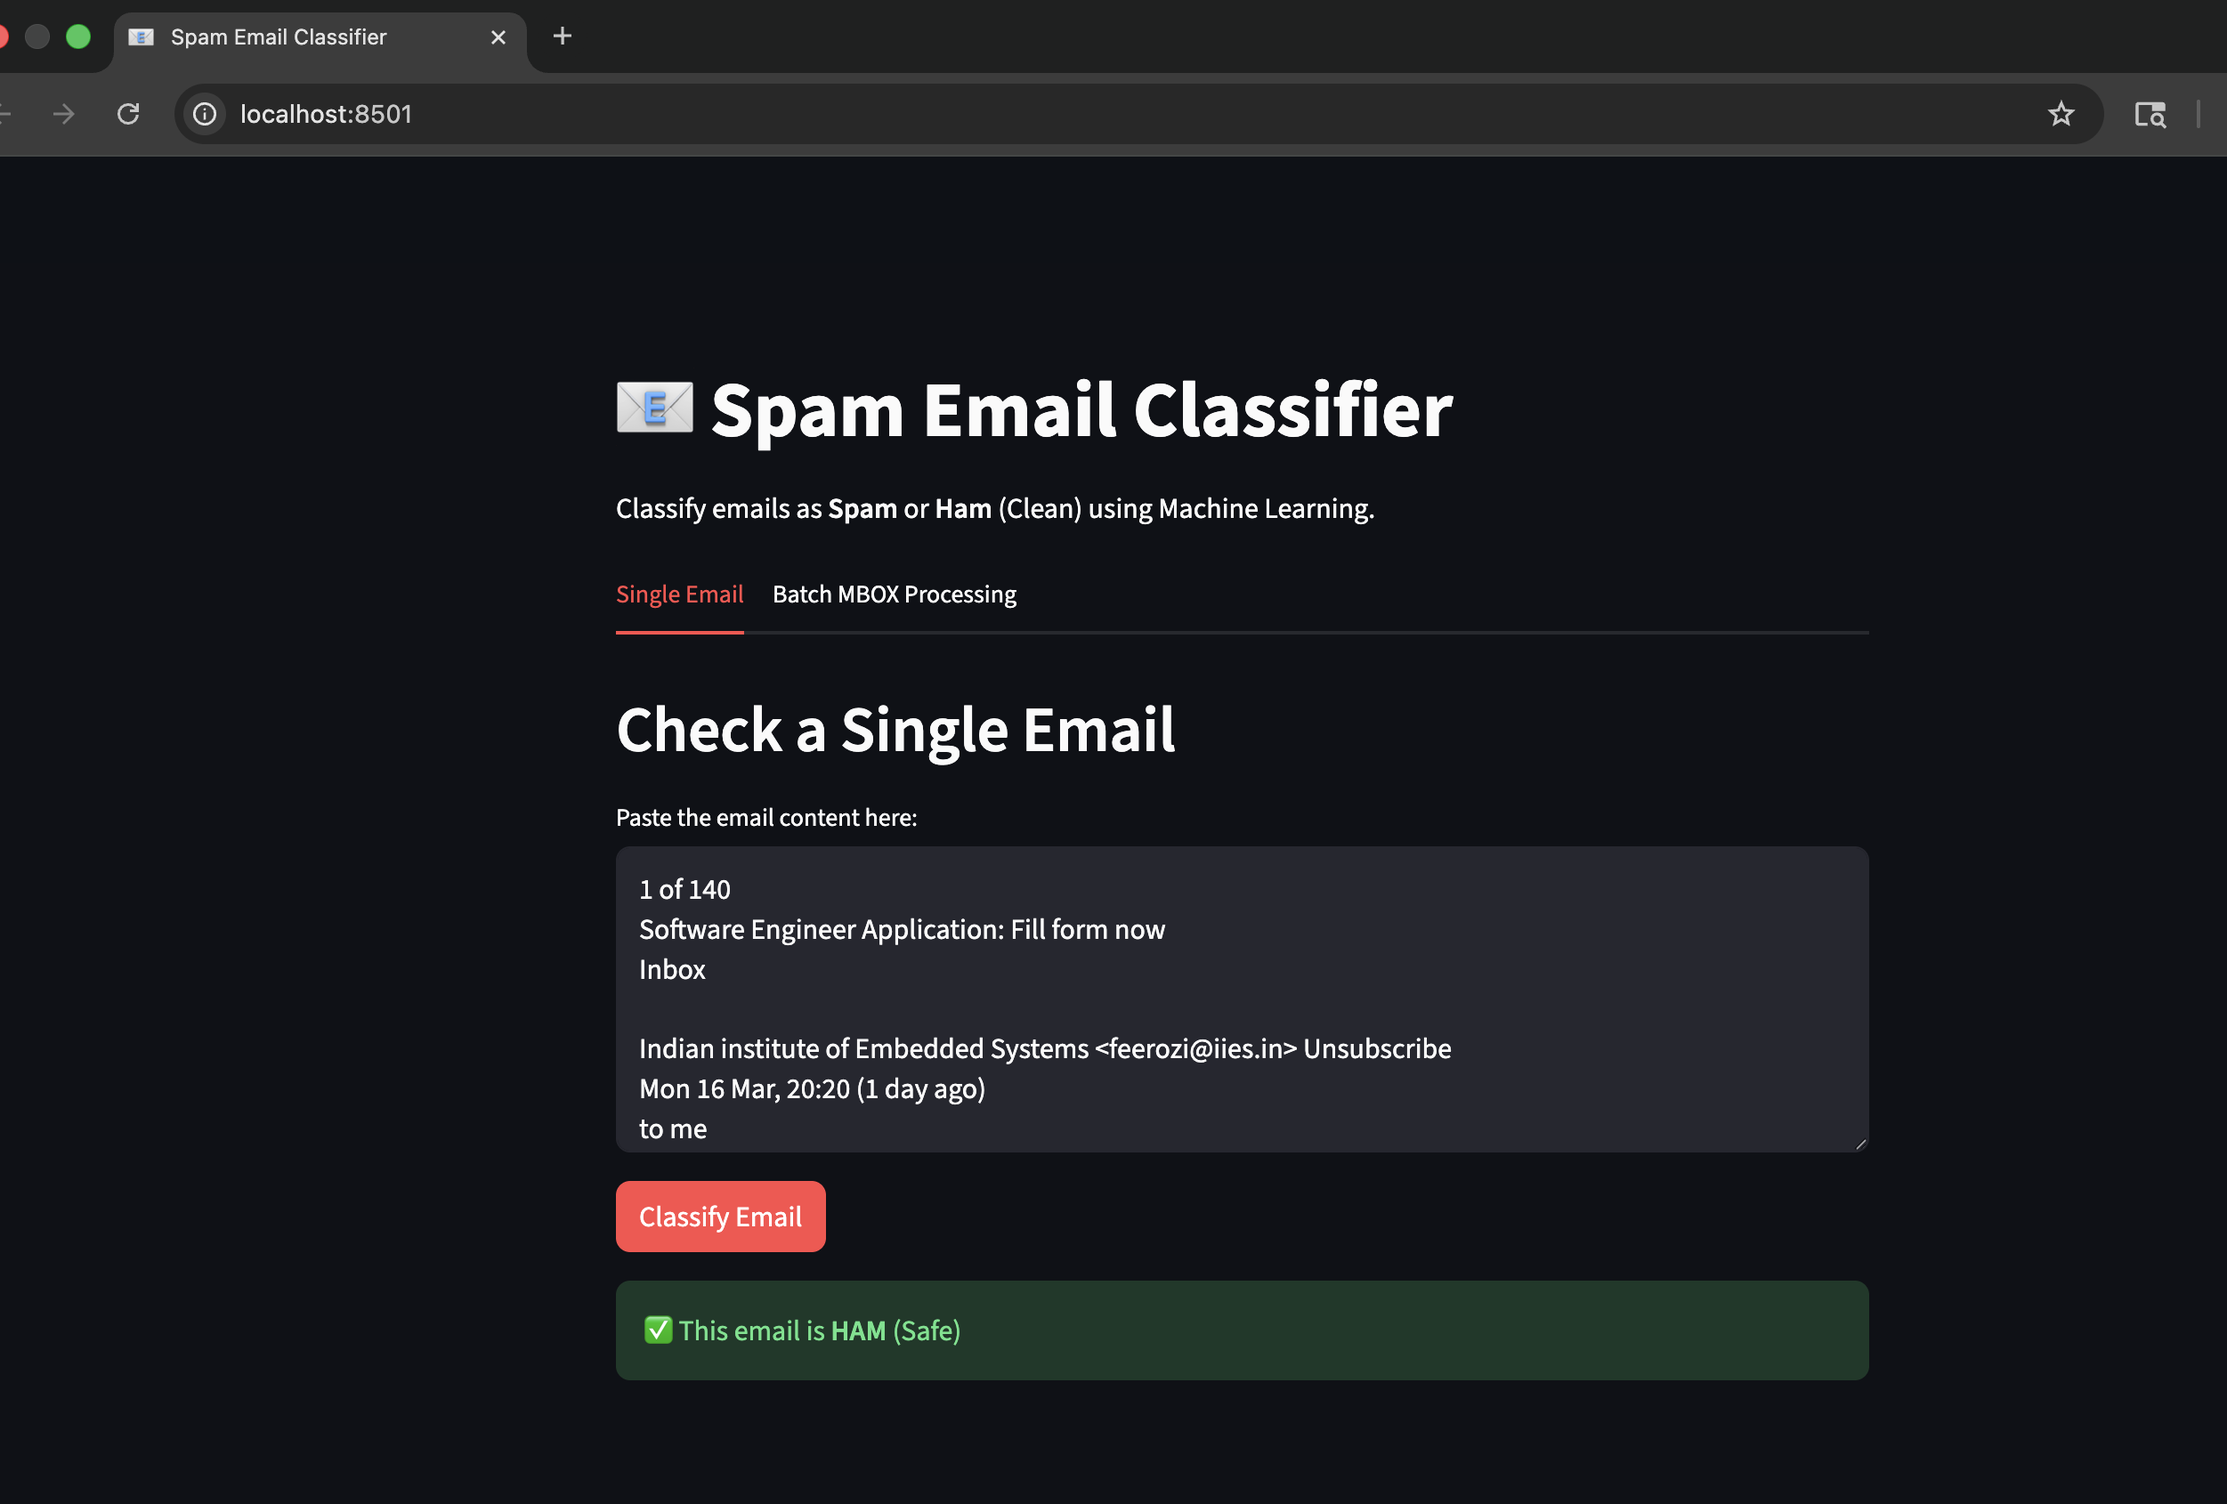
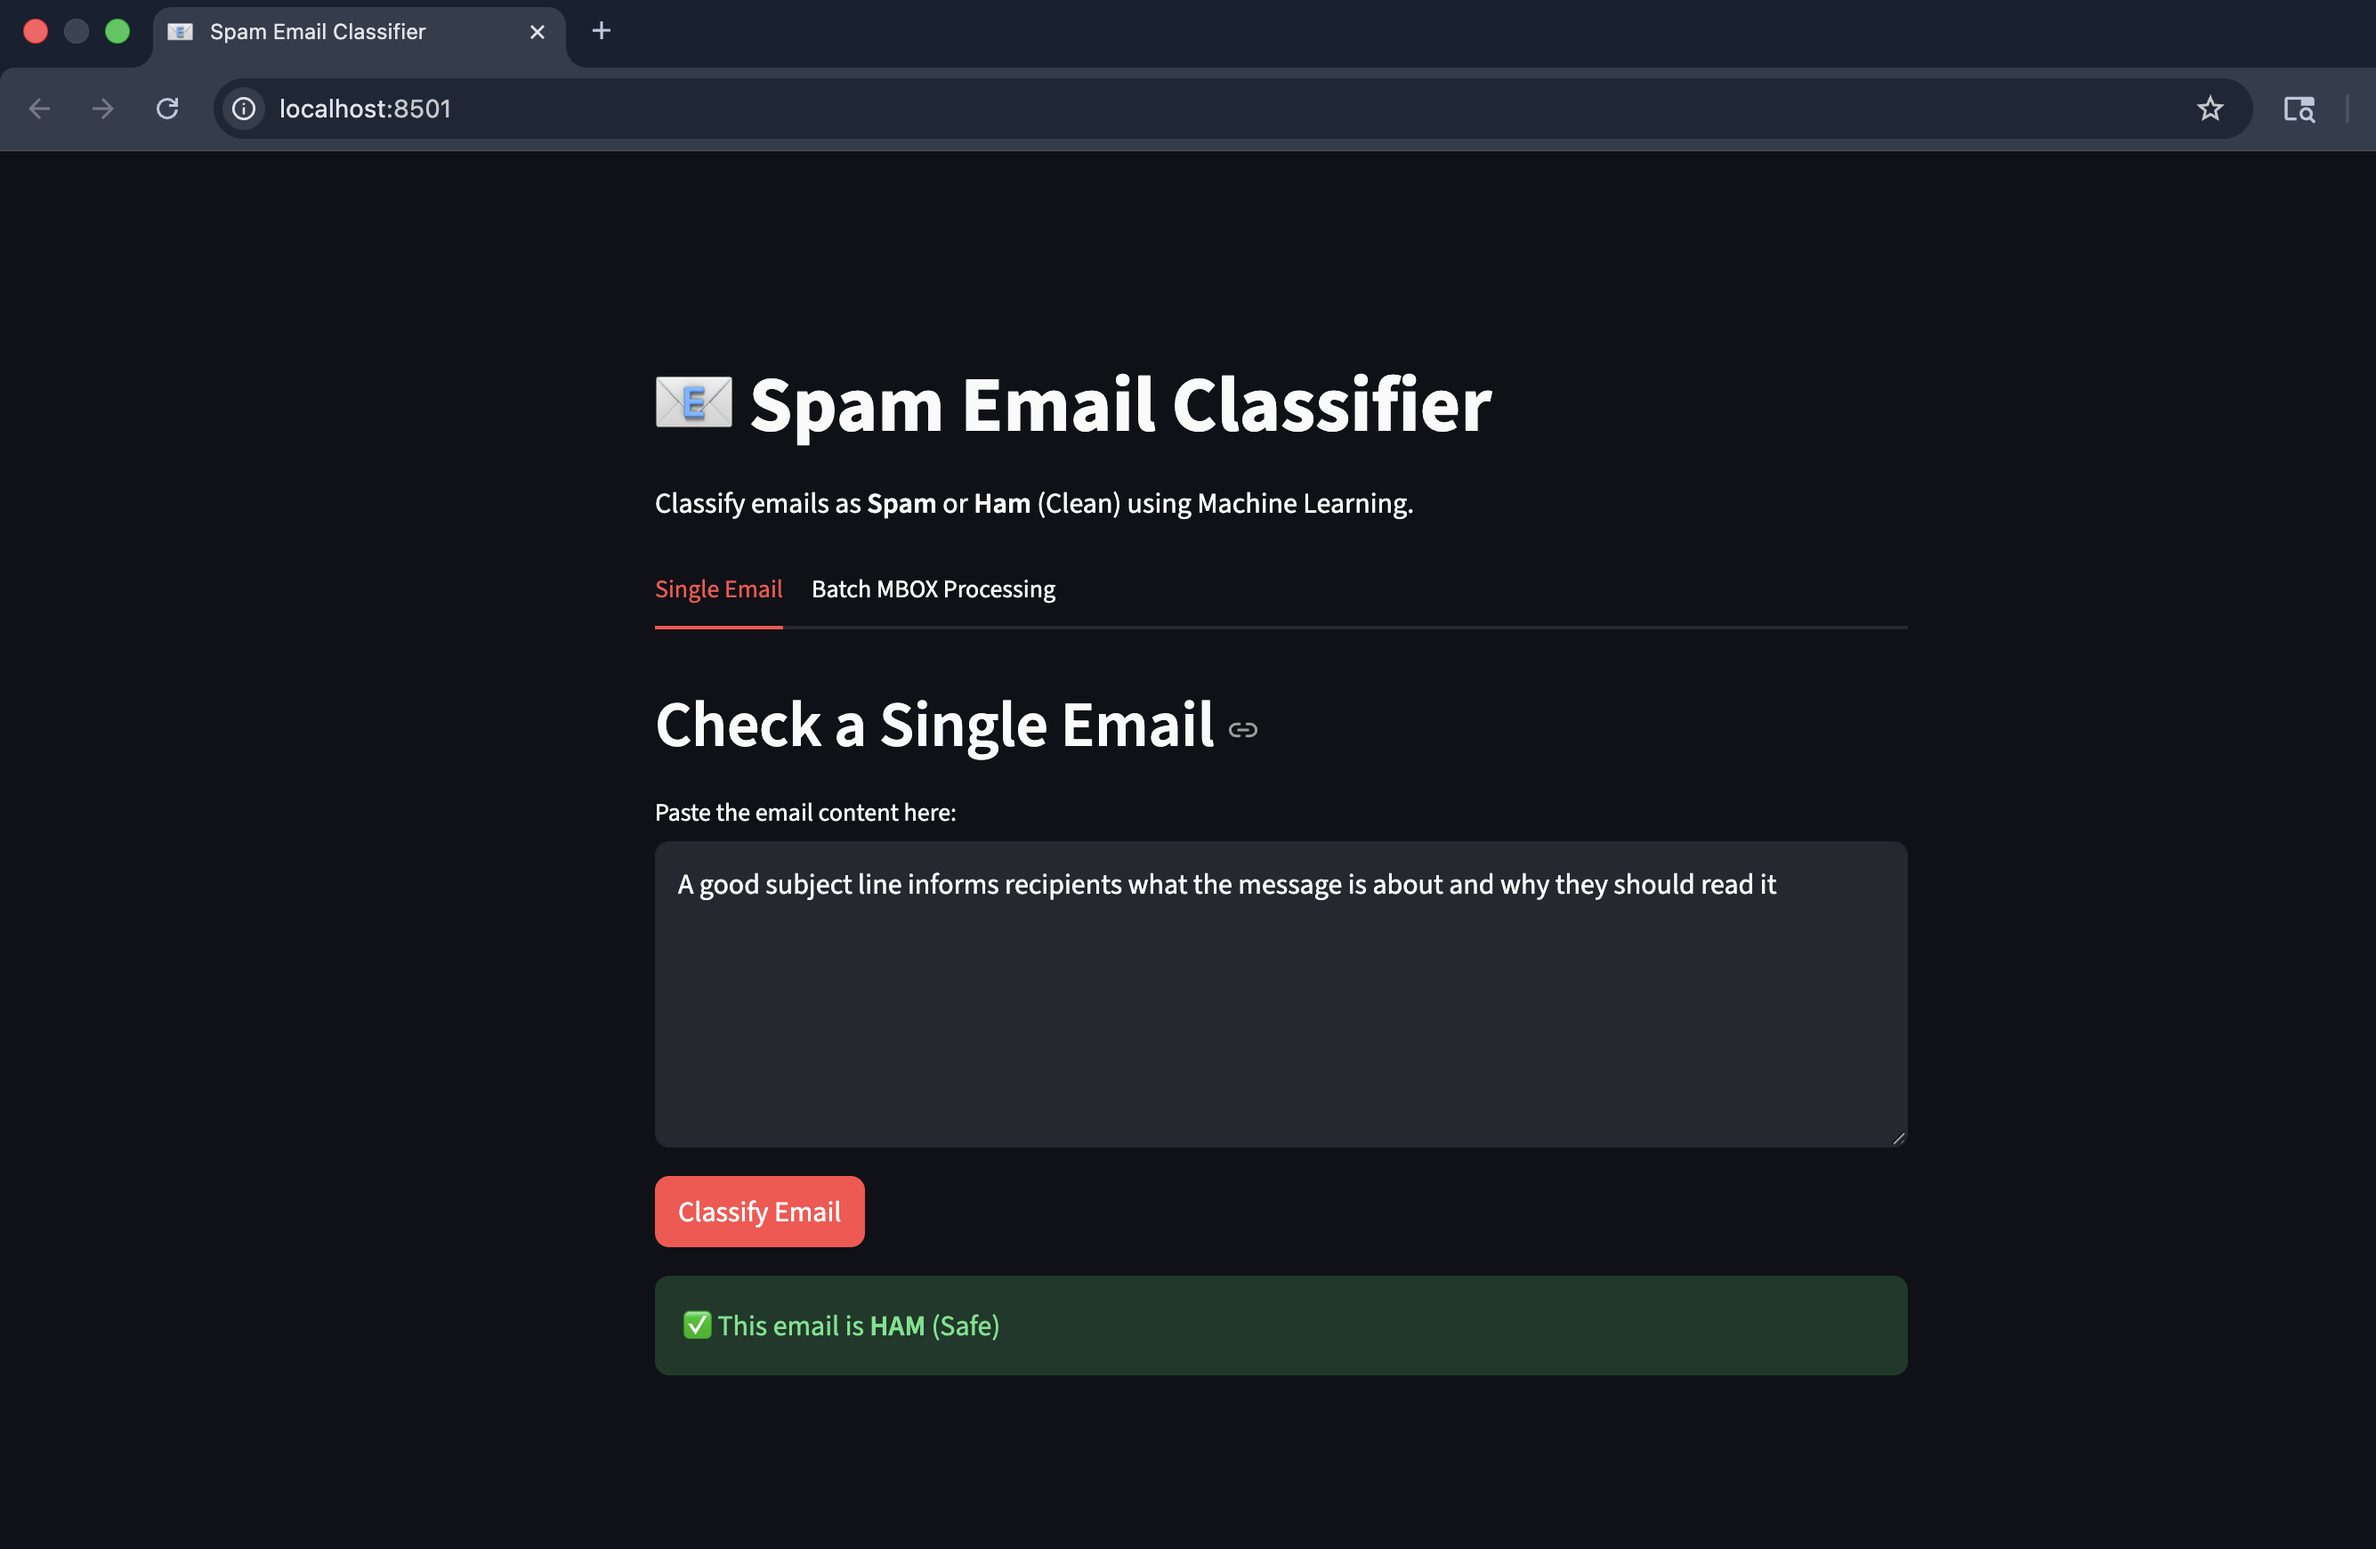
Updated README

Changed region(s): [[0.2494, 0.2154, 0.8417, 0.9231], [0.0, 0.0, 1.0, 0.1231]]

diff --git a/README.md b/README.md
@@ -1,51 +1,64 @@
 # AI Email Spam Detection System
 
-Developed by: Kartik Mathpati
-This project implements an AI-based email spam detection system that classifies
-incoming email messages as Spam or Ham (legitimate emails). The system uses
-Natural Language Processing (NLP) techniques and machine learning algorithms
-to analyze email content and predict whether an email is spam.
+**Developed by:** Kartik Mathpati
 
-The application provides an interactive web interface built with Streamlit
-where users can test individual emails or process multiple emails from an MBOX archive.
+This project implements an AI-based email spam detection system that classifies incoming email messages as **Spam** or **Ham (legitimate emails)**. The system uses **Natural Language Processing (NLP)** and **Machine Learning algorithms** to analyze email content and predict whether an email is spam.
+
+The application provides an interactive web interface built using **Streamlit**, allowing users to test individual emails or process multiple emails from an **MBOX archive**.
+
+---
 
 ## 📷 Application Screenshots
 
 ### Spam Detection Interface
-![Spam Detection](screenshot1.png)
+![Spam Detection Interface](screenshot1.png)
 
 ### Email Prediction Example
-![Prediction Example](screenshot2.png)
+![Email Prediction Example](screenshot2.png)
+
+---
+
 ## 🚀 Key Features
 
-- **Advanced ML Pipeline**: Modular design separating data ingestion, transformation, and model training.
-- **Multiple Model Support**: evaluation of various algorithms including SVM, Logistic Regression, Decision Trees, and Random Forest.
-- **Interactive Web UI**: Built with Streamlit for real-time single-email analysis and batch processing.
-- **MBOX Support**: Native capability to process and classify entire `mbox` email archives.
-- **Detailed Analytics**: Comprehensive logging and performance metrics (Precision, Recall, F1-Score).
+- **Advanced ML Pipeline** – Modular design separating data ingestion, transformation, and model training.
+- **Multiple Model Support** – Evaluation of algorithms including **SVM, Logistic Regression, Decision Trees, and Random Forest**.
+- **Interactive Web UI** – Built using **Streamlit** for real-time email classification.
+- **MBOX File Support** – Process and classify multiple emails from an email archive.
+- **Performance Analytics** – Logs metrics such as **Precision, Recall, Accuracy, and F1-Score**.
+
+---
 
 ## 🛠 Tech Stack
 
-- **Language**: Python 3.10+
-- **Frontend**: Streamlit
-- **ML Framework**: Scikit-learn
-- **Data Processing**: Pandas, NumPy, BeautifulSoup4
-- **Project Management**: `uv` (recommended) or `pip`
+| Category | Technology |
+|--------|-------------|
+| Programming Language | Python 3.10+ |
+| Frontend | Streamlit |
+| Machine Learning | Scikit-learn |
+| Data Processing | Pandas, NumPy |
+| Text Processing | BeautifulSoup4 |
+| Package Management | pip / uv |
+
+---
 
 ## 📂 Project Structure
 
 ```
+AI-Email-Spam-Detection
+│
 ├── app.py                  # Main Streamlit Web Application
 ├── requirements.txt        # Project dependencies
-├── main.py                 # (Optional) Alternative entry point
+├── main.py                 # Alternative entry point
+│
 ├── src/
-│   ├── components/         # Core processing modules (Ingestion, Transformation)
-│   ├── pipeline/           # Orchestration pipelines (Training, Prediction)
-│   ├── config/             # Configuration and parameters
-│   └── utils/              # Helper functions, logging, and state management
-├── data/                   # Dataset storage (inputs)
-├── outputs/                # Training artifacts (models, vectorizers)
-└── logs/                   # System runtime logs
+│   ├── components/         # Data ingestion & transformation
+│   ├── pipeline/           # Training and prediction pipelines
+│   ├── config/             # Configuration files
+│   └── utils/              # Helper functions and logging
+│
+├── data/                   # Dataset storage
+├── outputs/                # Trained models & vectorizers
+└── logs/                   # System logs
 ```
 
 ## ⚡ Installation
